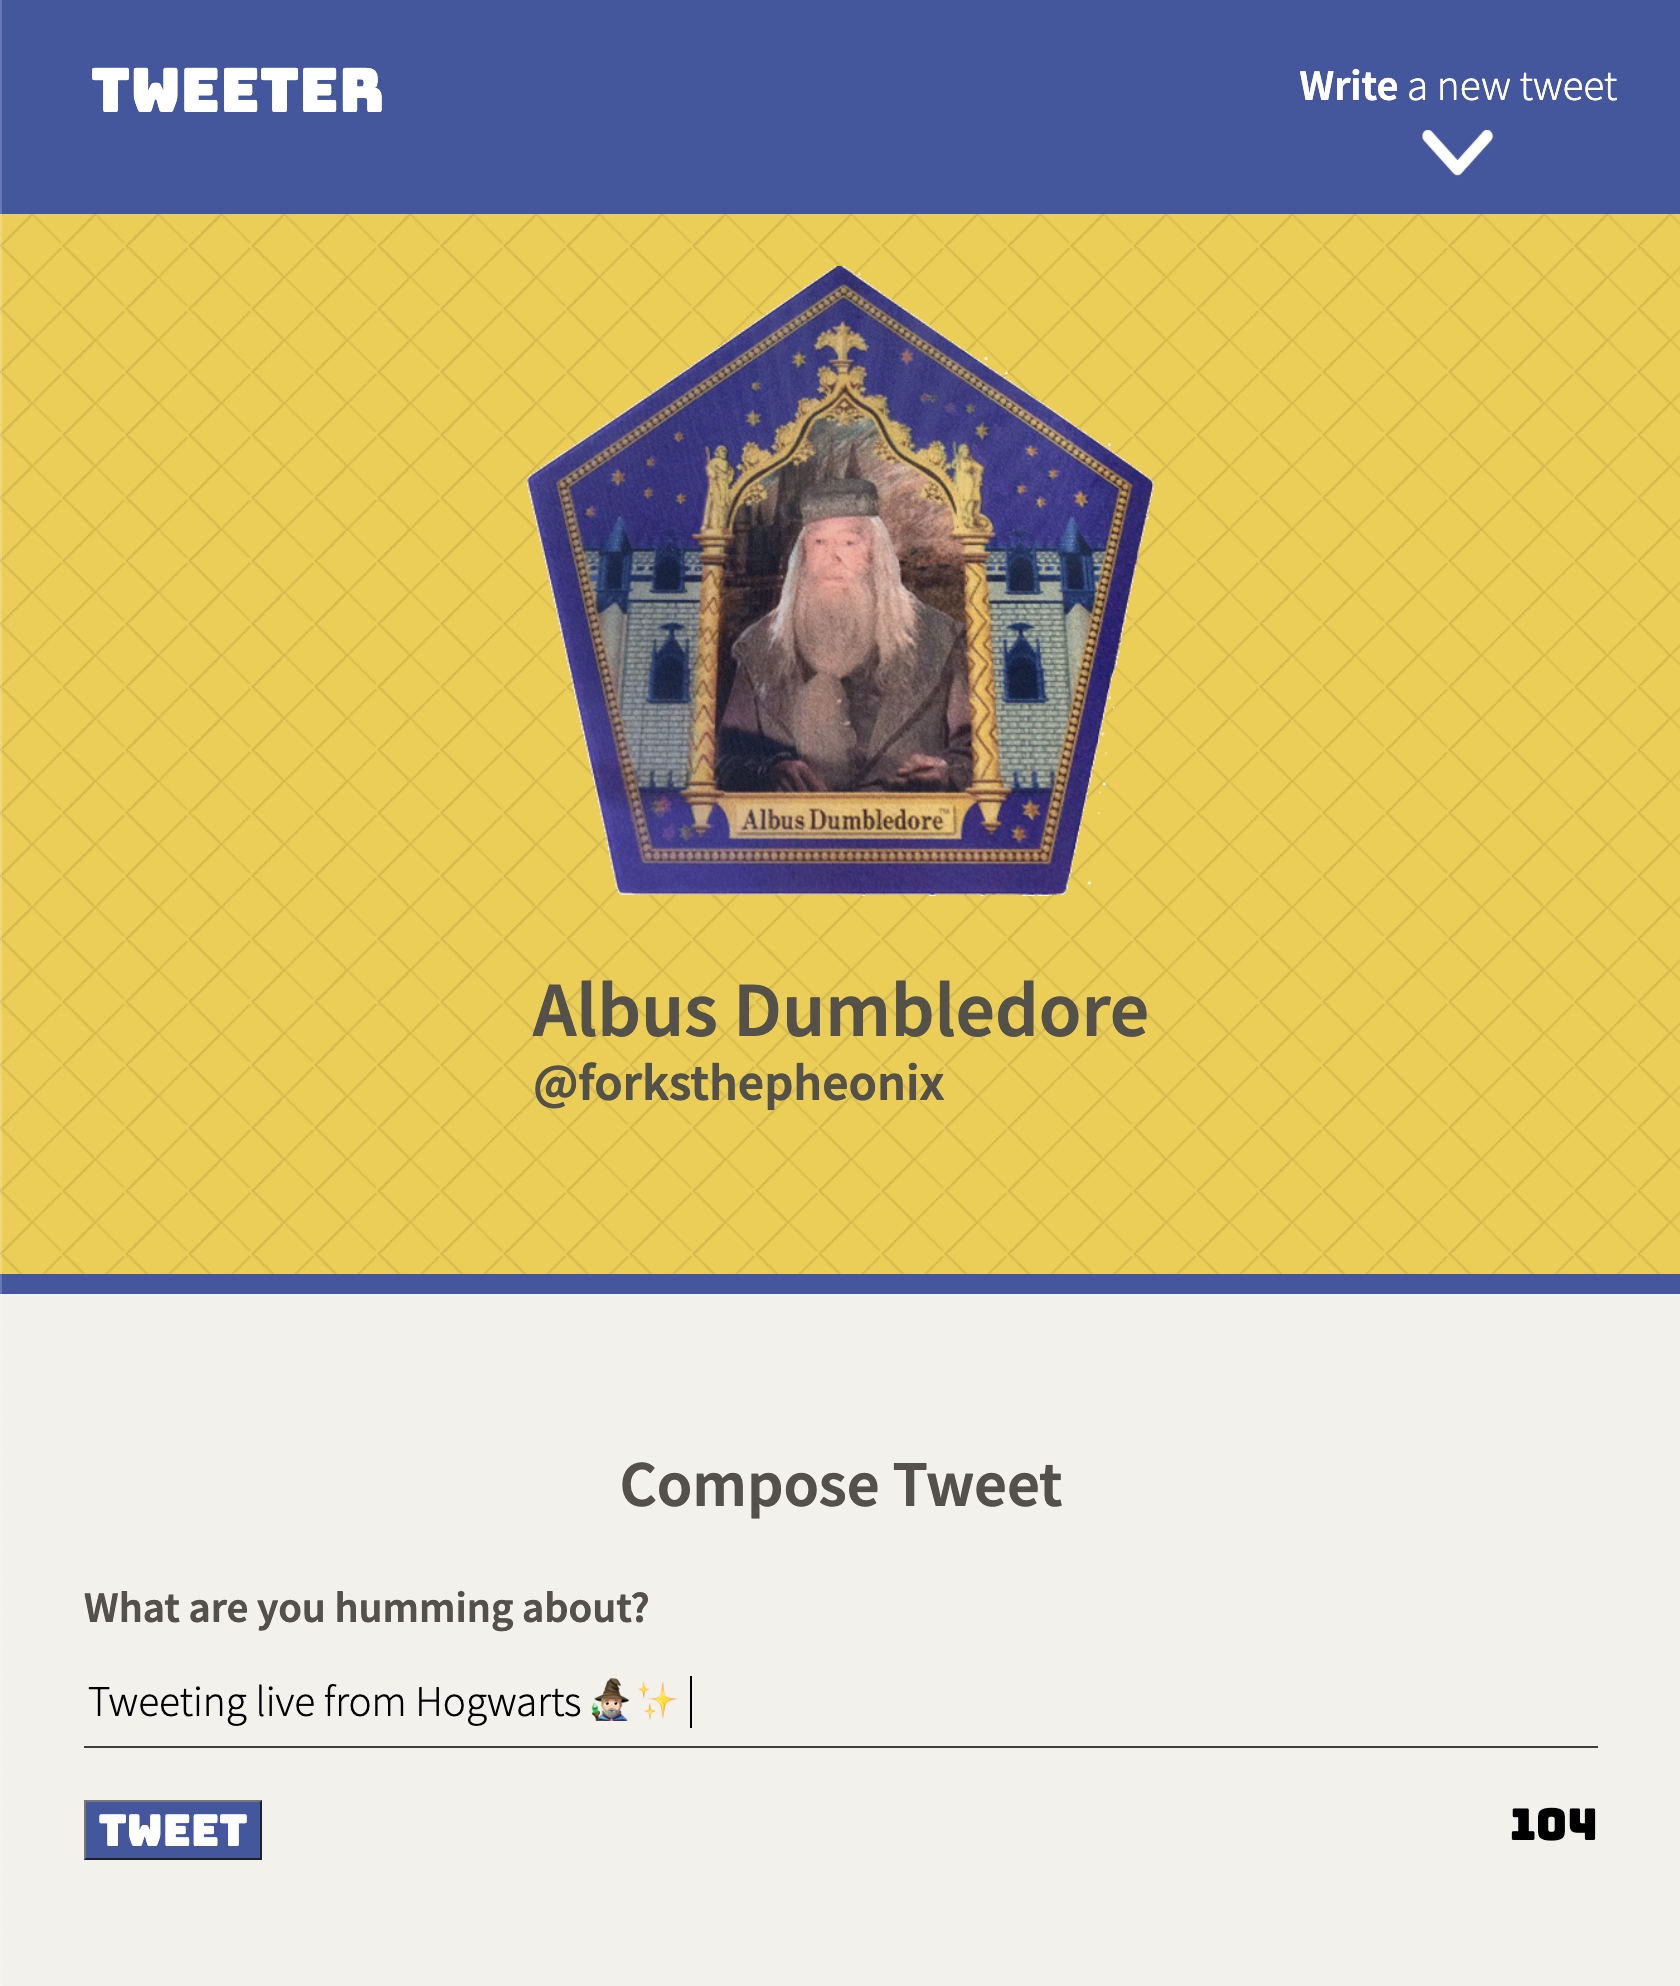
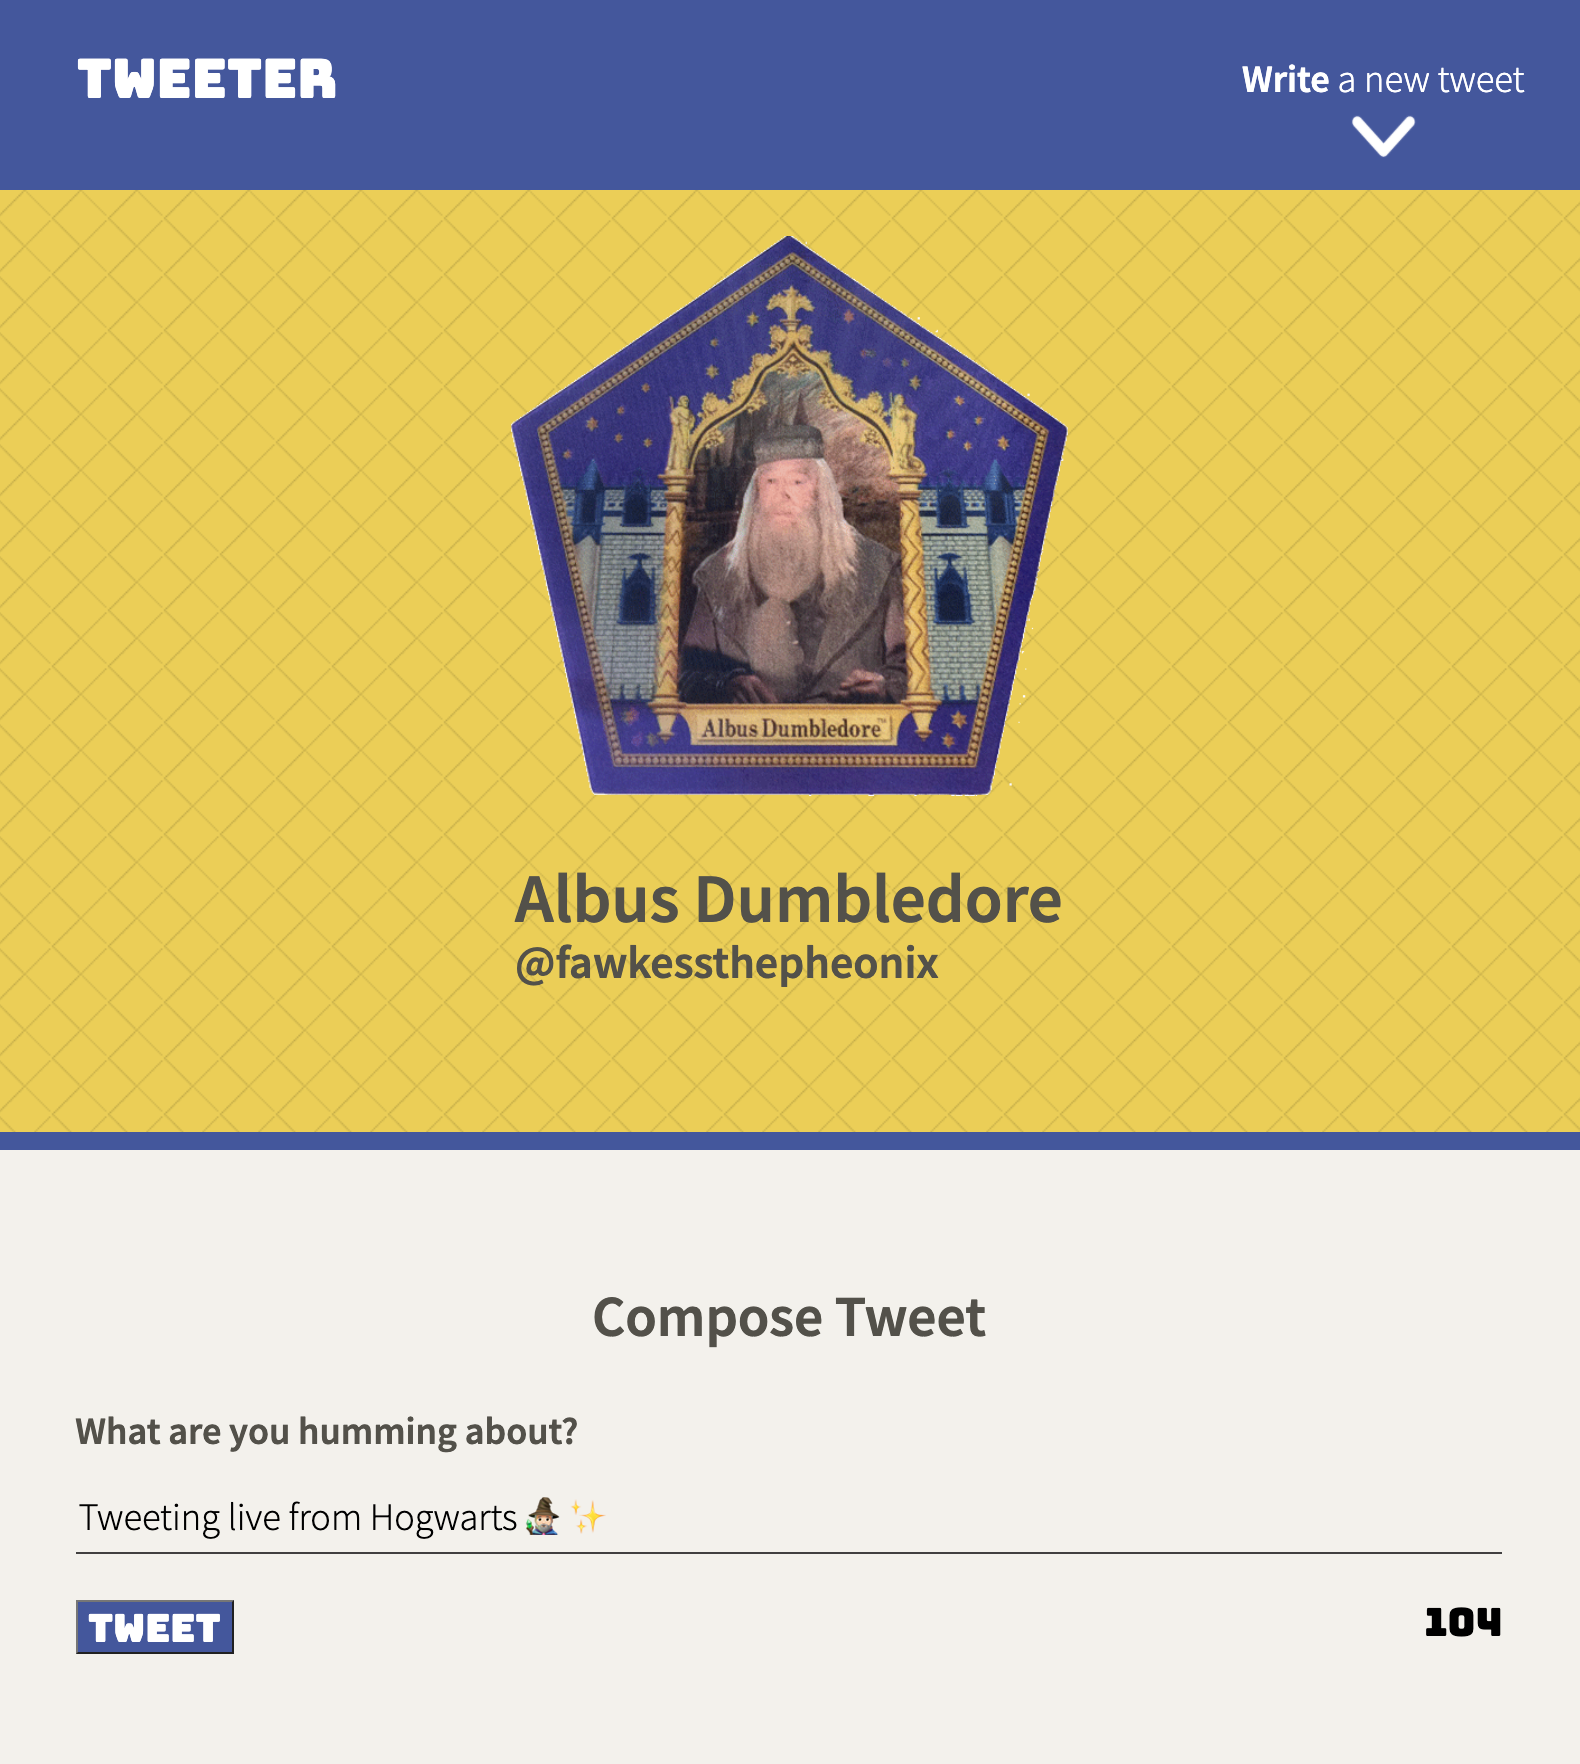
update to header styling

diff --git a/public/index.html b/public/index.html
@@ -45,7 +45,7 @@
         <br>
         <div>
             <h2>Albus Dumbledore</h2>
-            <h4>@forksthepheonix</h4>
+            <h4>@fawkessthepheonix</h4>
         </div>
     </header>
 
